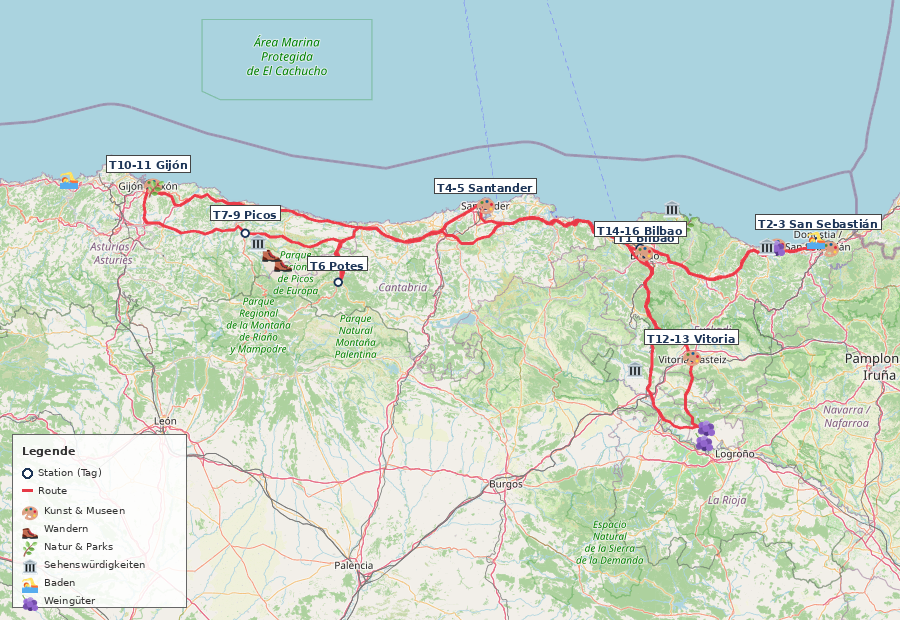
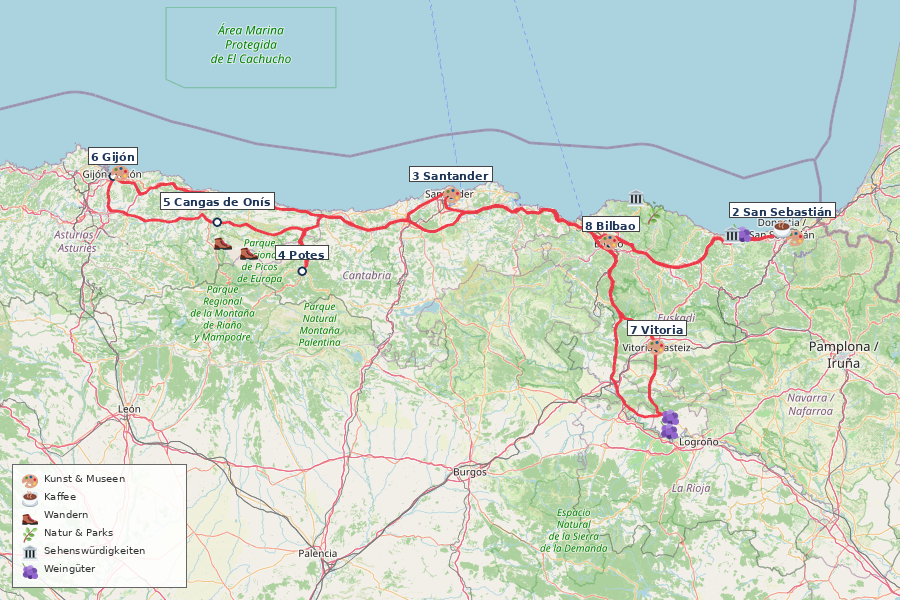
fix(roadtrips): correct weekdays, table rendering, and update preferences
- fix weekday labels in routenplanung table (4. Sep 2026 = Friday)
- add blank lines before tables for jekyll/kramdown compatibility
- correct mietwagen duration from 16 to 15 days
- simplify map legend to POI icons only
- use sequential station numbering on map
- update steering: remove flight day preference rule
- update steering: prefer billiger-mietwagen.de and booking.com
- update accommodation rules: small/familial hotels, B&Bs, breakfast

diff --git a/scripts/render_roadtrip_map.py b/scripts/render_roadtrip_map.py
@@ -224,11 +224,11 @@ def render_map(
         )
         draw.text((tx, ty), text, fill="#1D3557", font=font_bold)
 
-    # --- Legend overlay (bottom-left corner) ---
+    # --- Legend overlay (bottom-left corner) — POI icons only ---
     if pois:
         used_categories = sorted(set(cat for cat, _, _, _ in pois))
         line_height = 18
-        legend_h = 30 + (len(used_categories) + 2) * line_height
+        legend_h = 16 + len(used_categories) * line_height
         legend_w = 175
         lx = 12
         ly = height - legend_h - 12
@@ -250,23 +250,9 @@ def render_map(
         )
 
         cx = lx + 10
-        cy = ly + 10
+        cy = ly + 8
 
-        draw.text((cx, cy), "Legende", fill="#333333", font=font_bold)
-        cy += line_height + 4
-
-        # Station marker
-        draw.ellipse([cx, cy + 2, cx + 10, cy + 12], fill="#1D3557")
-        draw.ellipse([cx + 2, cy + 4, cx + 8, cy + 10], fill="white")
-        draw.text((cx + 16, cy), "Station (Tag)", fill="#333333", font=font_small)
-        cy += line_height
-
-        # Route line
-        draw.line([(cx, cy + 6), (cx + 10, cy + 6)], fill="#E63946", width=3)
-        draw.text((cx + 16, cy), "Route", fill="#333333", font=font_small)
-        cy += line_height + 2
-
-        # POI categories
+        # POI categories only
         for cat in used_categories:
             info = POI_CATEGORIES.get(cat, {"color": "#999", "label": cat})
             icon_file = ICON_DIR / info.get("icon", "sight.png")

diff --git a/trips/road/nordspanien-kueste.md b/trips/road/nordspanien-kueste.md
@@ -22,22 +22,22 @@ Bilbao → San Sebastián → Santander → Potes → Picos de Europa → Gijón
 
 | Tag | Datum      | Station                                           | Programm                                                                                                                                                                                                                                                                   |
 | --- | ---------- | ------------------------------------------------- | -------------------------------------------------------------------------------------------------------------------------------------------------------------------------------------------------------------------------------------------------------------------------- |
-| 1   | Do 4. Sep  | **Bilbao** (Ankunft)                              | Abendflug BER→BIO. Mietwagen übernehmen, Fahrt ins Zentrum (~15 Min.). Abendessen Casco Viejo.                                                                                                                                                                             |
-| 2   | Fr 5. Sep  | 🚗 → **San Sebastián** · 139 km, ~3 Std. + Stopps | Küstenstraße: Gaztelugatxe (morgens früh, 241 Stufen), Bermeo Kaffee am Hafen, Urdaibai Aussichtspunkt, Lekeitio Mittagessen (Fisch), Zumaia Flysch-Küste (30 Min. Spaziergang), 🎨 Balenciaga Museum Getaria, 🍇 Txakoli-Verkostung. Ankunft abends. Pintxos Parte Vieja. |
-| 3   | Sa 6. Sep  | San Sebastián                                     | 🥾 Monte Igueldo Küstenwanderung (8 km, 3 Std.). 🏊 Playa de la Concha. 🎨 Chillida-Leku Skulpturenpark. Abend: Pintxos-Crawl (Zeruko, La Cuchara de San Telmo).                                                                                                           |
-| 4   | So 7. Sep  | 🚗 → **Santander** · 198 km, ~2,5 Std.            | Stopp Castro Urdiales (Kaffee, gotische Kirche). Ankunft Mittag. 🎨 Centro Botín (Renzo Piano). 🏛️ Palacio de la Magdalena. 🏊 Playa del Sardinero. Abend: Mercado de la Esperanza.                                                                                        |
-| 5   | Mo 8. Sep  | Santander                                         | 🥾 Cabo Mayor → Mataleñas Klippenpfad (6 km, 2 Std.). 🏊 Playa de la Arnía. Abend: Bodega del Riojano.                                                                                                                                                                     |
-| 6   | Di 9. Sep  | 🚗 → **Potes** · 106 km, ~1,5 Std. + Stopps       | 🏛️ Santillana del Mar (mittelalterliches Dorf) + Altamira-Museum. Optional: Comillas (Gaudís El Capricho). 🏛️ Desfiladero de la Hermida (21 km Schlucht, 175 Kurven). 🥾 Mirador de Santa Catalina (4 km, 1,5 Std.). Abend: Cocido Lebaniego + 🍇 Orujo-Verkostung.        |
-| 7   | Mi 10. Sep | 🚗 → **Cangas de Onís** · 109 km, ~1,5 Std.       | Fahrt über Desfiladero de los Beyos. 🏛️ Puente Romano, Basílica de Covadonga. Abend: Sidrería — Sidra escanciar lernen.                                                                                                                                                    |
-| 8   | Do 11. Sep | Picos de Europa                                   | 🥾 **Ruta del Cares** (21 km, 6–7 Std.) — Ganztageswanderung, früh starten. Abend: Quesu Cabrales in Arenas de Cabrales.                                                                                                                                                   |
-| 9   | Fr 12. Sep | Picos de Europa                                   | 🚗🥾 Lagos de Covadonga (Rundweg 6,4 km, 2,5 Std., morgens früh). 🏊 Río Sella Flussbaden oder Playa de Gulpiyuri (Inland-Strand). Abend: Fabada Asturiana im El Molín de la Pedrera.                                                                                      |
-| 10  | Sa 13. Sep | 🚗 → **Gijón** · 87 km, ~1 Std.                   | 🥾 Senda del Cervigón Küstenpfad (8 km, 2,5 Std.). 🏊 Playa de San Lorenzo. 🌿 Jardín Botánico Atlántico. Abend: Sidrería Tierra Astur.                                                                                                                                    |
-| 11  | So 14. Sep | Oviedo (Tagesausflug, 30 Min.)                    | 🏛️ Präromanische Kirchen (UNESCO). 🎨 Museo de Bellas Artes. Mercado del Fontán. ☕ Cafetería Rialto. Rückweg: 🎨 LABoral Centro de Arte (Gijón).                                                                                                                          |
-| 12  | Mo 15. Sep | 🚗 → **Vitoria-Gasteiz** · 326 km, ~3,5 Std.      | Pause Castro Urdiales (~2 Std. Fahrt). Ankunft Nachmittag. 🎨 Itinerario Muralístico Rundgang (1,5 Std.). Abend: Pintxos Casco Viejo (Calle Cuchillería).                                                                                                                  |
-| 13  | Di 16. Sep | Rioja Alavesa (Tagesausflug, 30 Min.)             | 🍇 Bodegas Ysios (Calatrava-Bau, Verkostung). Mittag: Lamm al sarmiento. 🍇 Marqués de Riscal (Gehry-Hotel). 🏛️ Laguardia Altstadt + unterirdische Keller. 🏛️ Salinas de Añana (Rückweg, geführte Tour).                                                                   |
-| 14  | Mi 17. Sep | 🚗 → **Bilbao** · 66 km, ~1 Std.                  | 🎨 Artium Museoa (2 Std.). 🏛️ Catedral de Santa María. Fahrt Bilbao. Mietwagen Flughafen abgeben, Metro Zentrum. Abend: Mercado de la Ribera.                                                                                                                              |
-| 15  | Do 18. Sep | Bilbao                                            | 🎨 **Guggenheim** (3 Std.). Restaurante Mina. 🏛️ Casco Viejo + Puente Bizkaia (UNESCO). 🥾 Artxanda Funicular (Sonnenuntergang). Abend: Plaza Nueva Pintxos-Crawl.                                                                                                         |
-| 16  | Fr 19. Sep | Bilbao (Abreise)                                  | ☕ Café Iruña. Bummel Altstadt. Metro Flughafen. Rückflug BIO→BER nachmittags.                                                                                                                                                                                             |
+| 1   | Fr 4. Sep  | **Bilbao** (Ankunft)                              | Abendflug BER→BIO. Mietwagen übernehmen, Fahrt ins Zentrum (~15 Min.). Abendessen Casco Viejo.                                                                                                                                                                             |
+| 2   | Sa 5. Sep  | 🚗 → **San Sebastián** · 139 km, ~3 Std. + Stopps | Küstenstraße: Gaztelugatxe (morgens früh, 241 Stufen), Bermeo Kaffee am Hafen, Urdaibai Aussichtspunkt, Lekeitio Mittagessen (Fisch), Zumaia Flysch-Küste (30 Min. Spaziergang), 🎨 Balenciaga Museum Getaria, 🍇 Txakoli-Verkostung. Ankunft abends. Pintxos Parte Vieja. |
+| 3   | So 6. Sep  | San Sebastián                                     | 🥾 Monte Igueldo Küstenwanderung (8 km, 3 Std.). 🏊 Playa de la Concha. 🎨 Chillida-Leku Skulpturenpark. Abend: Pintxos-Crawl (Zeruko, La Cuchara de San Telmo).                                                                                                           |
+| 4   | Mo 7. Sep  | 🚗 → **Santander** · 198 km, ~2,5 Std.            | Stopp Castro Urdiales (Kaffee, gotische Kirche). Ankunft Mittag. 🎨 Centro Botín (Renzo Piano). 🏛️ Palacio de la Magdalena. 🏊 Playa del Sardinero. Abend: Mercado de la Esperanza.                                                                                        |
+| 5   | Di 8. Sep  | Santander                                         | 🥾 Cabo Mayor → Mataleñas Klippenpfad (6 km, 2 Std.). 🏊 Playa de la Arnía. Abend: Bodega del Riojano.                                                                                                                                                                     |
+| 6   | Mi 9. Sep  | 🚗 → **Potes** · 106 km, ~1,5 Std. + Stopps       | 🏛️ Santillana del Mar (mittelalterliches Dorf) + Altamira-Museum. Optional: Comillas (Gaudís El Capricho). 🏛️ Desfiladero de la Hermida (21 km Schlucht, 175 Kurven). 🥾 Mirador de Santa Catalina (4 km, 1,5 Std.). Abend: Cocido Lebaniego + 🍇 Orujo-Verkostung.        |
+| 7   | Do 10. Sep | 🚗 → **Cangas de Onís** · 109 km, ~1,5 Std.       | Fahrt über Desfiladero de los Beyos. 🏛️ Puente Romano, Basílica de Covadonga. Abend: Sidrería — Sidra escanciar lernen.                                                                                                                                                    |
+| 8   | Fr 11. Sep | Picos de Europa                                   | 🥾 **Ruta del Cares** (21 km, 6–7 Std.) — Ganztageswanderung, früh starten. Abend: Quesu Cabrales in Arenas de Cabrales.                                                                                                                                                   |
+| 9   | Sa 12. Sep | Picos de Europa                                   | 🚗🥾 Lagos de Covadonga (Rundweg 6,4 km, 2,5 Std., morgens früh). 🏊 Río Sella Flussbaden oder Playa de Gulpiyuri (Inland-Strand). Abend: Fabada Asturiana im El Molín de la Pedrera.                                                                                      |
+| 10  | So 13. Sep | 🚗 → **Gijón** · 87 km, ~1 Std.                   | 🥾 Senda del Cervigón Küstenpfad (8 km, 2,5 Std.). 🏊 Playa de San Lorenzo. 🌿 Jardín Botánico Atlántico. Abend: Sidrería Tierra Astur.                                                                                                                                    |
+| 11  | Mo 14. Sep | Oviedo (Tagesausflug, 30 Min.)                    | 🏛️ Präromanische Kirchen (UNESCO). 🎨 Museo de Bellas Artes. Mercado del Fontán. ☕ Cafetería Rialto. Rückweg: 🎨 LABoral Centro de Arte (Gijón).                                                                                                                          |
+| 12  | Di 15. Sep | 🚗 → **Vitoria-Gasteiz** · 326 km, ~3,5 Std.      | Pause Castro Urdiales (~2 Std. Fahrt). Ankunft Nachmittag. 🎨 Itinerario Muralístico Rundgang (1,5 Std.). Abend: Pintxos Casco Viejo (Calle Cuchillería).                                                                                                                  |
+| 13  | Mi 16. Sep | Rioja Alavesa (Tagesausflug, 30 Min.)             | 🍇 Bodegas Ysios (Calatrava-Bau, Verkostung). Mittag: Lamm al sarmiento. 🍇 Marqués de Riscal (Gehry-Hotel). 🏛️ Laguardia Altstadt + unterirdische Keller. 🏛️ Salinas de Añana (Rückweg, geführte Tour).                                                                   |
+| 14  | Do 17. Sep | 🚗 → **Bilbao** · 66 km, ~1 Std.                  | 🎨 Artium Museoa (2 Std.). 🏛️ Catedral de Santa María. Fahrt Bilbao. Mietwagen Flughafen abgeben, Metro Zentrum. Abend: Mercado de la Ribera.                                                                                                                              |
+| 15  | Fr 18. Sep | Bilbao                                            | 🎨 **Guggenheim** (3 Std.). Restaurante Mina. 🏛️ Casco Viejo + Puente Bizkaia (UNESCO). 🥾 Artxanda Funicular (Sonnenuntergang). Abend: Plaza Nueva Pintxos-Crawl.                                                                                                         |
+| 16  | Sa 19. Sep | Bilbao (Abreise)                                  | ☕ Café Iruña. Bummel Altstadt. Metro Flughafen. Rückflug BIO→BER nachmittags.                                                                                                                                                                                             |
 
 > ⚠️ **Längste Etappe:** Tag 12, Gijón → Vitoria (326 km, ~3,5 Std.). Pause in Castro Urdiales empfohlen.
 
@@ -170,6 +170,7 @@ Bilbao → San Sebastián → Santander → Potes → Picos de Europa → Gijón
 
 > ℹ️ _Anfang September: Spätsommer, noch warm aber Atlantik bringt gelegentlich Regen. Aktuelle Vorhersage vor Reiseantritt prüfen._
 
+
 | Station         | Temperatur | Regen | Besonderheiten             |
 | --------------- | ---------- | ----- | -------------------------- |
 | San Sebastián   | 15–24°C    | 30%   | Milde Küste, abends frisch |
@@ -199,9 +200,9 @@ Bilbao → San Sebastián → Santander → Potes → Picos de Europa → Gijón
 
 - Übernahme: Bilbao Flughafen, 4. Sep abends
 - Abgabe: Bilbao Flughafen, 19. Sep mittags
-- Kompaktwagen, ~450–700 € für 16 Tage (Vollkasko inkl.)
+- Kompaktwagen, ~450–700 € für 15 Tage (Vollkasko inkl.)
 
-> 💡 Frühzeitig buchen. Vergleich: CHECK24, billiger-mietwagen.de
+> 💡 Frühzeitig buchen: billiger-mietwagen.de
 
 ---
 
@@ -210,7 +211,7 @@ Bilbao → San Sebastián → Santander → Potes → Picos de Europa → Gijón
 | Posten                  | Geschätzt          |
 | ----------------------- | ------------------ |
 | Flüge (2×, Roundtrip)   | ~320–600 €         |
-| Mietwagen (16 Tage)     | ~450–700 €         |
+| Mietwagen (15 Tage)     | ~450–700 €         |
 | Unterkünfte (15 Nächte) | ~1.400–2.000 €     |
 | Benzin (~1.086 km)      | ~120–150 €         |
 | Essen & Aktivitäten     | ~900–1.400 €       |
@@ -228,6 +229,7 @@ Bilbao → San Sebastián → Santander → Potes → Picos de Europa → Gijón
 - Sidra: „Escanciar" — aus 1 m Höhe ins Glas, sofort trinken
 - Txakoli: Aus Höhe eingeschenkt
 - Sprache: Baskisch (Euskara) + Spanisch im Baskenland, Asturisch (Bable) in Asturien
+
 
 | Thema              | Info                                                                                             |
 | ------------------ | ------------------------------------------------------------------------------------------------ |
@@ -251,6 +253,7 @@ Bilbao → San Sebastián → Santander → Potes → Picos de Europa → Gijón
 ## Quellen
 
 Markierte Wanderwege ([Waymarked Trails](https://waymarkedtrails.org), OSM-Daten):
+
 
 | Route                            | Länge  | Link                                                                        |
 | -------------------------------- | ------ | --------------------------------------------------------------------------- |

diff --git a/.kiro/steering/user-preferences.md b/.kiro/steering/user-preferences.md
@@ -15,7 +15,7 @@ Single source of truth for personal defaults shared across all tour types (cycli
 
 - **Default group size**: 2 persons
 - **Cycling**: 2 persons + 2 bicycles (affects fare calculations and transit constraints)
-- **Car trips**: Compact rental car, pickup/dropoff at airport
+- **Car trips**: Compact rental car, pickup/dropoff at airport. Booking via billiger-mietwagen.de (preferred)
 
 ## Home Base
 
@@ -30,7 +30,6 @@ Single source of truth for personal defaults shared across all tour types (cycli
 - **Fallback**: If no direct flight to the destination exists, search for the nearest airport with a direct BER connection. Accept up to ~3 hours driving from that airport to the trip region. Note: cross-border rental car usage (e.g., Portugal → Spain) is acceptable within EU/Schengen — book with "cross-border" option and note the surcharge in the cost estimate.
 - Outbound: early morning (07:00–09:00) to maximize the first day
 - Return: afternoon/evening (15:00–17:00) to use the last morning
-- Preferred days: avoid Friday/Monday (business surcharge). Tuesday–Thursday outbound, Sunday return.
 
 ## Interests — Priority Order
 
@@ -68,11 +67,12 @@ Apply when selecting restaurants, cafés, and stops:
 
 Apply when suggesting overnight stays:
 
-- Small/boutique over large chains
+- Small/familial hotels, B&Bs, pensiones over large chains
+- Breakfast included (Frühstück) preferred
+- Booking via booking.com (preferred)
 - Central location, walkable to sights
 - Price range: ~80–150 €/night for 2 persons
 - Sauna/wellness is a plus — mention when available
-- **Never** recommend hostels or budget chains
 
 ## Content Integrity Rules
 

diff --git a/.kiro/steering/roadtrip-planning.md b/.kiro/steering/roadtrip-planning.md
@@ -274,7 +274,7 @@ Rules:
 
 **Mietwagen:** Kompaktwagen, ~{X}–{Y} € für {N} Tage (Vollkasko inkl.)
 
-> 💡 Frühzeitig buchen. CHECK24, billiger-mietwagen.de
+> 💡 Frühzeitig buchen. billiger-mietwagen.de
 ```
 
 ### 6. Kostenübersicht